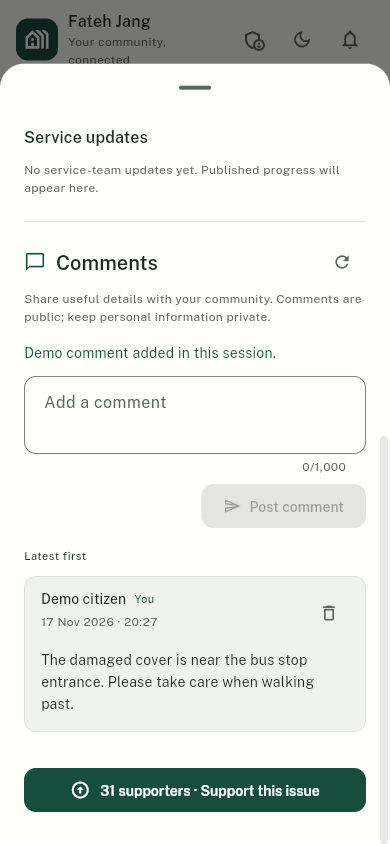
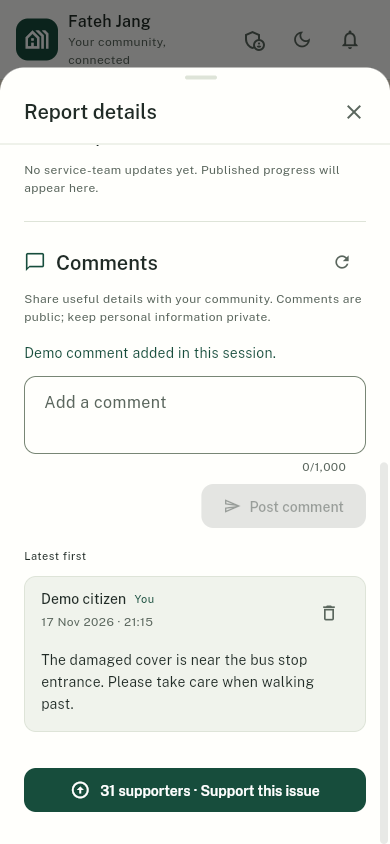
docs(ux): document verified gestures and draft protection
Record the completed interaction audit, independent review fixes and real browser/Android validation for the modern application habits increment.

Changes:
- Explain pull-to-refresh, active-destination scroll-to-top, retained snapshots and guarded unsaved drafts in the README.
- Refresh the sample discussion screenshot and add a phone draft-protection preview.
- Map each accepted behavior to implementation and verification evidence, including all 210 passing Flutter tests, clean analysis and successful web/Android builds.
- Record safe retry behavior, process-restart limitations, unchanged backend contracts and preservation of the existing live report during native checks.

Validation:
- Independent final source review passed at 3eeb6b4 with no remaining concrete blockers.
- Final browser interaction checks passed with zero page errors; the installed Android app is running and the web server responds on port 8080.
- Documentation links and repository whitespace checks pass; local configuration and user-owned skill files are excluded.

diff --git a/docs/superpowers/2026-11-17-interaction-delivery.md b/docs/superpowers/2026-11-17-interaction-delivery.md
@@ -1,0 +1,48 @@
+# Familiar interaction delivery — November 17, 2026
+
+## Revision and scope
+
+Implementation: `557c44eaa3e68437d73b56274f14ac76f40a5f15`; reviewed fixes: `3eeb6b47657723cb2a5e3fd53114ae901ee00c79`. Base: `aafaf52a94781d3a934c9af9acf83def4de11092`.
+
+The user requested familiar modern app behavior, explicitly including pulling down to refresh, and authorized autonomous gap fixing. This increment uses the existing Material 3 theme, Public Sans and evergreen palette. It introduces no package, schema, credential or backend deployment changes.
+
+## Acceptance evidence
+
+| Behavior | Implementation | Observed verification |
+| --- | --- | --- |
+| Pull down to refresh | CivicPage with adaptive RefreshIndicator, always-scrollable main surface; Overview, Explore, My Reports and authority queue opt in | Gesture test on short/empty content; each screen exposes refresh; Android screenshot captures refresh above the existing report |
+| Keep reports visible | Initial loading is separate from refreshing; failed refresh displays feedback with the last snapshot | Citizen controller failure regression; authority workspace held-response/error regression; native existing report remains visible during hosted refresh |
+| Safe refresh concurrency | Coalesced citizen reads; mutation revision checks; support receipts update current models by ID | Both refresh/support completion orders, delayed delete response and account-change tests |
+| Matching authority snapshots | Successful queue snapshots carry all five query criteria and account identity; membership changes notify before the next queue finishes | Five failed-criteria regressions; held queue with changed department verifies immediate notification |
+| Predictable navigation and keyboard | Current destination scrolls to top; scrolling/search dismisses keyboard; first invalid form field is revealed and focused | Phone navigation/search widget tests; small-screen signup focus test; real browser active-tab and Enter checks |
+| Reachable report controls | Fixed header and Close; body scrolls above keyboard inset | Phone enlarged-text/keyboard tests; Android long-discussion inspection; browser phone screenshots |
+| Safe draft departure | Shared LeaveGuard covers Back, modal dismissal and AppShell replacement; header drag uses guarded dismissal | Report/account/comment/staff draft tests; barrier, Back, header-drag and root-platform-exit tests; real browser and native cancellation/discard |
+| Preserve retry identity | Citizen/staff dialogs own their discussion controllers; unresolved comments/service updates remain open for the original retry | Unknown comment close/Back and staff Close regressions verify the same request ID; reattached controller test verifies visible text matches its draft |
+
+## Automated checks
+
+- `flutter test --no-pub --reporter expanded`: **210 tests passed**. Includes existing authentication, account reconciliation, report submission recovery, storage, map, comments and authority workflows.
+- `flutter analyze --no-pub`: **No issues found**.
+- Configured release web build with `GOOGLE_MAPS_ENABLED=false`: **passed**, including Wasm compatibility dry run.
+- Configured Android debug APK: **passed**. Existing Gradle/Kotlin future-support notices remain unchanged.
+- `git diff --check`: **passed**.
+
+Regression cases were observed failing before fixes: overlapping refresh requests; delayed reads overwriting deletion/support; report/account draft loss; offscreen detail Close; unfocused first signup error; unsafe root dismissal; mismatched authority criteria; delayed scope notification; hidden reattached comment drafts; and the opposite support/refresh ordering.
+
+## Browser and Android
+
+The final release web build is served at `http://localhost:8080`. Playwright exercised sample-data refresh controls, compact filters, search Enter, active-tab scroll-to-top, fixed phone detail controls, comment post/removal, and comment/report/staff draft cancellation and deliberate discard. Browser checks reported zero page errors. Screenshots in the README contain isolated sample data.
+
+The final debug APK is installed and launched in `emulator-5554`. Native checks verified the actual Supabase report feed, pulling to refresh while retaining the existing `MC00005`, a report draft retained after Keep editing, and a comment draft retained after Keep editing using the fixed Close control while the keyboard was open. Both synthetic unposted drafts were deliberately discarded. No hosted report, support, comment, photo or account was modified for these checks.
+
+Supabase continues to provide the hosted backend; a separate application API process is unnecessary. Existing local configuration remains ignored and unchanged.
+
+## Review and limits
+
+A read-only scout identified draft, dismissal and focus gaps. An independent reviewer inspected the fixed source revisions. Its first pass found three actionable state transitions; each received failing regression coverage and a focused fix. A fourth vote/refresh ordering was independently reproduced and fixed as well. Final focused review at `3eeb6b4`: **PASS**, no remaining concrete blockers. The resident confirmed completed final builds and runtime evidence after that source review.
+
+Agent models inherited the parent per runtime policy; exact identities are not exposed. Both review roles requested high reasoning effort, shared the managed workspace sandbox and were restricted to read-only source inspection without backend access or further delegation. The resident performed implementation, tests and runtime verification.
+
+Unsubmitted form and discussion drafts live only while the application remains open. Leave protection does not restore them after process termination or browser reload. Interrupted report submissions retain their existing persistent journal. Retained lists show a last-loaded snapshot after a connection failure; automatic realtime updates and durable offline caching are outside this increment.
+
+Rollback is a normal source revert followed by rebuilding the clients. No database rollback or migration is necessary.

diff --git a/docs/superpowers/plans/2026-11-17-interaction-polish.md b/docs/superpowers/plans/2026-11-17-interaction-polish.md
@@ -29,8 +29,9 @@
 - [x] Add failing behavioral tests for refresh on short content, retained reports on reload/error, request overlap and navigation/keyboard improvements.
 - [x] Implement shared scroll/refresh behavior and controller safety, then run targeted tests.
 - [x] Implement the remaining audited search/detail/form improvements with meaningful regression tests.
-- [ ] Run all Flutter tests, analyzer, release web and Android debug builds; verify browser and emulator interactions.
-- [ ] Independently review, resolve findings, update README and delivery evidence, commit and push main; leave the application available for testing.
+- [x] Run all Flutter tests, analyzer, release web and Android debug builds; verify browser and emulator interactions.
+- [x] Independently review, resolve findings, update README and delivery evidence; commit changes and leave the application available for testing.
+- [ ] Push main and verify its remote revision.
 
 ## Execution ledger
 
@@ -41,3 +42,7 @@
 - Red evidence: overlapping refreshes made two requests; delayed reads restored deleted reports and stale support; report/account navigation discarded drafts; detail Close scrolled offscreen; invalid signup left the first field unfocused; root draft dismissal omitted the platform exit. New regressions failed before their fixes.
 - Green evidence: complete Flutter suite 202 tests passed; static analysis reports no issues. Small phone, enlarged text and keyboard-inset discussion tests passed.
 - No backend or migration changes are required. Existing submission journals and mutation request UUID protocols remain intact.
+- Independent reviewer Tesla first requested changes at `557c44e`: retained authority pages must match all query criteria; changed memberships must notify before the queue completes; reattached discussion fields must show their retained draft. All findings were reproduced red, fixed and regression-tested. The reverse vote/refresh ordering was also reproduced and fixed.
+- Final source review at `3eeb6b4`: **PASS**, no remaining concrete blockers. Review was read-only with inherited model identity unavailable and requested high reasoning effort. Actual browser/emulator validation was performed by the resident.
+- Final verification: **210 tests pass**, analyzer clean, configured release web and Android debug builds succeed. Browser sample-data checks pass at phone and desktop sizes with zero page errors. Native actual-Supabase refresh retains `MC00005`; report/comment Keep editing and deliberate discard pass. Final APK is installed/running and the web server returns HTTP 200 on port 8080.
+- README screenshots use sample data. The native synthetic unposted report/comment drafts were discarded; no hosted application data changed. See `docs/superpowers/2026-11-17-interaction-delivery.md` for evidence and limits.

diff --git a/README.md b/README.md
@@ -53,6 +53,15 @@ Pull down at the top of **Overview**, **Explore**, **My Reports**, or the **auth
 Report, account, service-note and comment drafts ask for confirmation before being discarded. Report details keep their close control above the scrolling discussion. An unconfirmed comment or service update stays open for a safe retry, preserving the original action. These protections last while the application is open; unsubmitted form and comment drafts are not restored after restarting it. Interrupted report submissions use the separate persistent recovery journal.
 
 <details>
+<summary>Draft protection on a phone</summary>
+
+<img src="docs/images/draft-protection-phone.png" alt="Report discussion asking whether to keep editing or discard an unposted comment draft" width="280">
+
+The same choice protects unsubmitted reports, account edits and unpublished service notes.
+
+</details>
+
+<details>
 <summary>Compact Explore and report discussion previews</summary>
 
 | Explore · compact filters | Report · community comments |
@@ -248,7 +257,7 @@ flutter build web --release --dart-define=PREVIEW_MODE=true
 flutter build apk --debug --dart-define-from-file=config/backend.local.json
 ```
 
-The [authority delivery record](docs/superpowers/2026-11-17-authority-delivery.md) covers the staff workspace, live concurrency and browser checks. The [Supabase delivery record](docs/superpowers/2026-11-17-supabase-delivery.md) records the original backend migration checks. The earlier [UI delivery record](docs/superpowers/2026-11-17-redesign-delivery.md) covers the interface redesign. Verification is recorded evidence for those revisions, not a guarantee for a different deployment.
+The [interaction delivery record](docs/superpowers/2026-11-17-interaction-delivery.md) covers refresh gestures, draft protection, keyboard behavior and the corresponding browser/emulator checks. The [authority delivery record](docs/superpowers/2026-11-17-authority-delivery.md) covers the staff workspace, live concurrency and browser checks. The [Supabase delivery record](docs/superpowers/2026-11-17-supabase-delivery.md) records the original backend migration checks. The earlier [UI delivery record](docs/superpowers/2026-11-17-redesign-delivery.md) covers the interface redesign. Verification is recorded evidence for those revisions, not a guarantee for a different deployment.
 
 Coverage includes report parsing and filters, photo validation, geographic boundaries, preview isolation, submission recovery, authentication errors, theme contrast, responsive navigation, and reduced motion. Widget checks include 375 px dark layouts at 2× text size. [SQL integration tests](supabase/tests) exercise database permissions and report transactions against the deployed schema.
 
